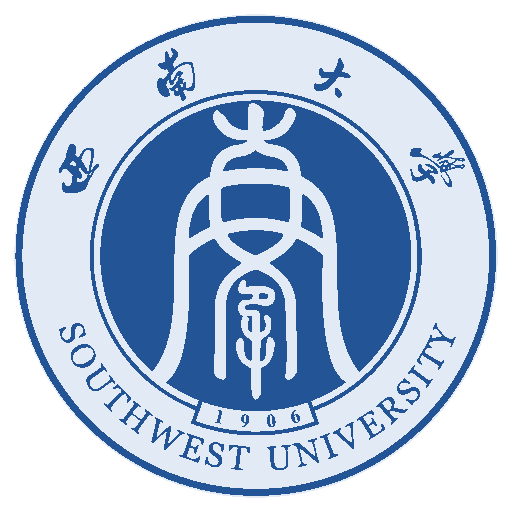
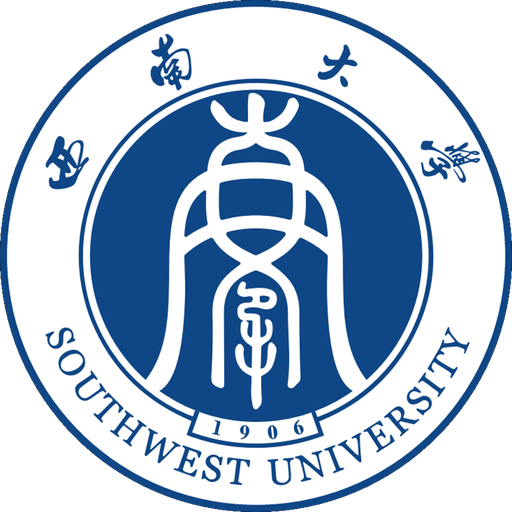
feat: 深色启动页改用指定校徽图
- dark/media/startIcon.png 用新提供的校徽生成：纯黑底抠成透明，裁边后补正方形，512px
- tools/gen-splash-logo.py 重写：默认重建浅色圆形徽标，传参可重建深色
- 深色启动页现在是深空底 + 悬浮校徽

diff --git a/tools/gen-splash-logo.py b/tools/gen-splash-logo.py
@@ -1,64 +1,82 @@
+# -*- coding: utf-8 -*-
+"""生成启动页 logo
 
+用法：
+  python gen-splash-logo.py                  # 只重建浅色（从 foreground.png 裁圆形徽标）
+  python gen-splash-logo.py <深色源图.png>    # 额外用它生成 deep 模式的 startIcon
+
+深色源图要求：正方形或近似正方形，纯黑背景会被抠成透明。
+"""
 import os
+import sys
+
 from PIL import Image
 
-root = r"D:\DeepSeek\eas"
-src = os.path.join(root, "entry", "src", "main", "resources", "base", "media", "foreground.png")
-im = Image.open(src).convert("RGBA").resize((512, 512), Image.LANCZOS)
-w, h = im.size
-px = im.load()
+ROOT = os.path.dirname(os.path.dirname(os.path.abspath(__file__)))
+RES = os.path.join(ROOT, "entry", "src", "main", "resources")
 
-def is_white(p):
-    r, g, b, a = p
-    return a > 10 and r > 235 and g > 235 and b > 235
 
-def is_ink(p):
-    r, g, b, a = p
-    return a > 10 and not is_white(p)
+def build_light():
+    src = os.path.join(RES, "base", "media", "foreground.png")
+    im = Image.open(src).convert("RGBA").resize((512, 512), Image.LANCZOS)
+    w, h = im.size
+    px = im.load()
 
-xs, ys = [], []
-for y in range(h):
-    for x in range(w):
-        if is_ink(px[x, y]):
-            xs.append(x); ys.append(y)
-cx = (min(xs) + max(xs)) / 2.0
-cy = (min(ys) + max(ys)) / 2.0
-rad = max(max(xs) - min(xs), max(ys) - min(ys)) / 2.0
+    def is_white(p):
+        r, g, b, a = p
+        return a > 10 and r > 235 and g > 235 and b > 235
 
-def build(paper, ink):
-    """paper=None 表示保留原白底；否则用指定纸色，ink 为蓝色重映射"""
+    xs, ys = [], []
+    for y in range(h):
+        for x in range(w):
+            if px[x, y][3] > 10 and not is_white(px[x, y]):
+                xs.append(x)
+                ys.append(y)
+    cx = (min(xs) + max(xs)) / 2.0
+    cy = (min(ys) + max(ys)) / 2.0
+    rad = max(max(xs) - min(xs), max(ys) - min(ys)) / 2.0
+
     out = Image.new("RGBA", (w, h), (0, 0, 0, 0))
     op = out.load()
     r2 = (rad * 1.005) ** 2
     for y in range(h):
         for x in range(w):
-            dx = x - cx; dy = y - cy
-            if dx * dx + dy * dy > r2:
+            if (x - cx) ** 2 + (y - cy) ** 2 > r2:
                 continue
-            p = px[x, y]
-            r, g, b, a = p
-            if b > 90 and r < 120:
-                c = ink if ink else (r, g, b)
-                op[x, y] = (c[0], c[1], c[2], a)
-            else:
-                if paper is None:
-                    op[x, y] = (r, g, b, a)
-                else:
-                    op[x, y] = (paper[0], paper[1], paper[2], a)
-    return out
+            op[x, y] = px[x, y]
+    out.save(os.path.join(RES, "base", "media", "startIcon.png"))
+    print("light -> base/media/startIcon.png")
 
-light = build(None, None)                       # 浅色：原样圆形徽标
-dark = build((226, 234, 246), (34, 84, 150))    # 深色：柔白圆底 + 略亮的蓝
 
-base_dir = os.path.join(root, "entry", "src", "main", "resources", "base", "media")
-dark_dir = os.path.join(root, "entry", "src", "main", "resources", "dark", "media")
-os.makedirs(dark_dir, exist_ok=True)
-light.save(os.path.join(base_dir, "startIcon.png"))
-dark.save(os.path.join(dark_dir, "startIcon.png"))
+def build_dark(src_path):
+    im = Image.open(src_path).convert("RGBA")
+    w, h = im.size
+    px = im.load()
+    out = Image.new("RGBA", (w, h), (0, 0, 0, 0))
+    op = out.load()
+    for y in range(h):
+        for x in range(w):
+            r, g, b, a = px[x, y]
+            m = max(r, g, b)
+            if m <= 12:
+                continue                      # 纯黑背景
+            alpha = 255 if m >= 36 else int((m - 12) / 24.0 * 255)
+            op[x, y] = (r, g, b, alpha)
 
-shots = os.path.join(root, "screenshot")
-for img, bg, name in [(light, (255,255,255,255), "p_light_big.png"), (dark, (15,17,20,255), "p_dark_big.png")]:
-    c = Image.new("RGBA", (w, h), bg)
-    c.alpha_composite(img)
-    c.resize((360, 360), Image.LANCZOS).save(os.path.join(shots, name))
-print("done r=", round(rad))
+    out = out.crop(out.getbbox())
+    cw, ch = out.size
+    side = max(cw, ch)
+    square = Image.new("RGBA", (side, side), (0, 0, 0, 0))
+    square.alpha_composite(out, ((side - cw) // 2, (side - ch) // 2))
+    final = square.resize((512, 512), Image.LANCZOS)
+
+    dark_dir = os.path.join(RES, "dark", "media")
+    os.makedirs(dark_dir, exist_ok=True)
+    final.save(os.path.join(dark_dir, "startIcon.png"))
+    print("dark  -> dark/media/startIcon.png")
+
+
+if __name__ == "__main__":
+    build_light()
+    if len(sys.argv) > 1:
+        build_dark(sys.argv[1])
